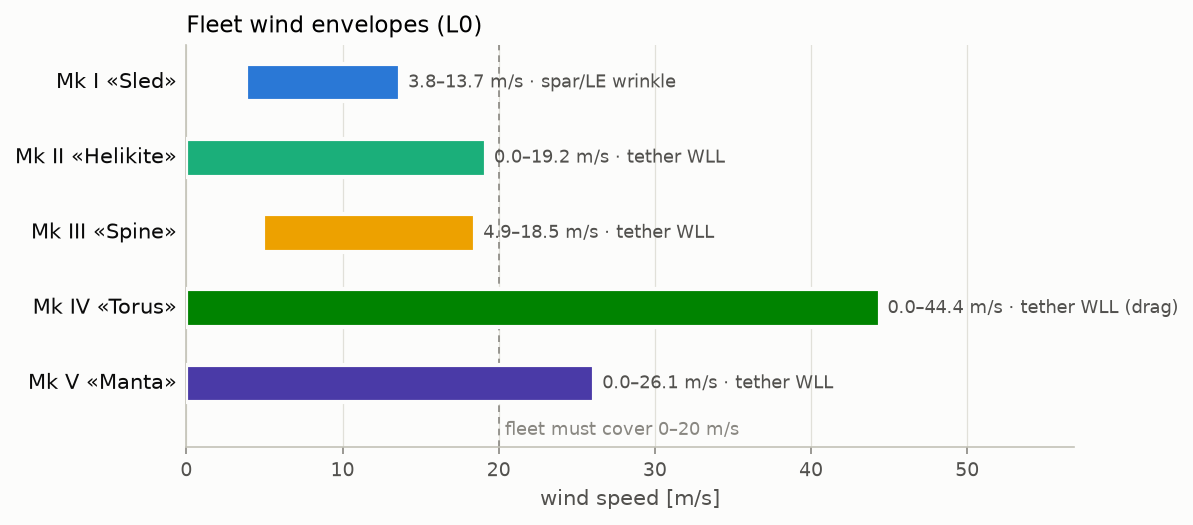
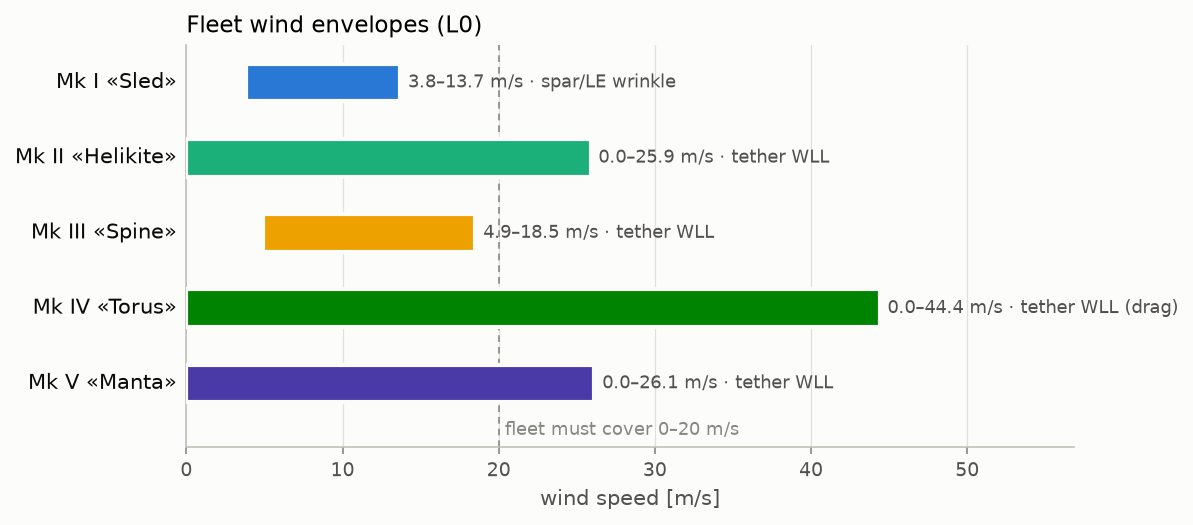
Mk2 love

Changed region(s): [[0.4032, 0.2438, 0.6823, 0.3352]]

diff --git a/kytoon/geometry.py b/kytoon/geometry.py
@@ -231,6 +231,24 @@ def build(spec: KytoonSpec) -> "trimesh.Scene":
                 process=False)
             scene.add_geometry(wing, geom_name="keel_wing")
 
+        # rigging: lobe underside tied to the wing's corners and keel fold
+        # (visual/interface geometry only — mass lives in rigging_mass)
+        lc = np.array([0.45 * c_root, 0.0, spec.lobe.height / 2 + 0.5])
+        a, cz = spec.lobe.diameter / 2, spec.lobe.height / 2
+        anchors = [np.array(v) for v in (
+            [0.0, 0.0, 0.0],
+            [c_root, -spec.canopy.span / 2, 1.2],
+            [c_root, spec.canopy.span / 2, 1.2],
+            [0.85 * c_root, 0.0, -1.5],
+        )]
+        for k, p in enumerate(anchors):
+            d = p - lc
+            # start on the lobe surface along the line to the anchor
+            t = 1.0 / math.sqrt((d[0] / a) ** 2 + (d[1] / a) ** 2
+                                + (d[2] / cz) ** 2)
+            scene.add_geometry(_tube_between(lc + t * d, p, 0.06),
+                               geom_name=f"rigging_{k}")
+
         # gimbaled EO/IR pod (spec payload), hung under the keel
         pod = trimesh.creation.capsule(radius=0.45, height=1.1)
         pod.apply_transform(

diff --git a/reports/l0.md b/reports/l0.md
@@ -11,13 +11,13 @@ Closed-form layer: Archimedes buoyancy, pressurized-beam wrinkle margins, quasi-
 | Flying mass [kg] | 185 | 218 | 258 | 245 | 209 |
 | Gross He lift [kg] | 39 | 752 | 5 | 706 | 678 |
 | Net static lift [kg] | -146 | 534 | -252 | 461 | 469 |
-| … incl. tether [kg] | -190 | 498 | -308 | 425 | 433 |
+| … incl. tether [kg] | -190 | 478 | -308 | 425 | 433 |
 | Calm-air capable | ✘ | ✔ | ✘ | ✔ | ✔ |
 | v_min [m/s] | 3.8 | 0.0 | 4.9 | 0.0 | 0.0 |
-| v_max [m/s] | 13.7 | 19.2 | 18.5 | 44.4 | 26.1 |
+| v_max [m/s] | 13.7 | 25.9 | 18.5 | 44.4 | 26.1 |
 | v_max limiter | spar/LE wrinkle | tether WLL | tether WLL | tether WLL (drag) | tether WLL |
 | Tow @12 m/s [kN] | 28.7 | 14.3 | 28.0 | 0.0 | 7.7 |
-| Spare vert. lift @10 m/s [kg] | 1,094 | 1,265 | 956 | 425 | 865 |
+| Spare vert. lift @10 m/s [kg] | 1,094 | 1,245 | 956 | 425 | 865 |
 
 ## Structure margins
 
@@ -53,7 +53,7 @@ Closed-form layer: Archimedes buoyancy, pressurized-beam wrinkle margins, quasi-
 - **Mk II «Helikite»**: no L0 flags
 - **Mk III «Spine»**: needs ≥ 4.9 m/s to stay aloft
 - **Mk IV «Torus»**: no L0 flags
-- **Mk V «Manta»**: no L0 flags- **Mk V «Manta»**: no L0 flags## Aerodynamic calibration provenance
+- **Mk V «Manta»**: no L0 flags- **Mk V «Manta»**: no L0 flags- **Mk V «Manta»**: no L0 flags## Aerodynamic calibration provenance
 
 Canopy coefficients for the clean-wing archetypes (Mk I, Mk III) are anchored
 to the open TU Delft V3 LEI benchmark (awegroup/TUDELFT_V3_KITE, CC-BY):

diff --git a/KYTOON-PROJECT.md b/KYTOON-PROJECT.md
@@ -204,6 +204,13 @@ legitimately lower per m² and not comparable to AWE traction figures.
 - **Mk V «Manta» covers the requirement alone (2026-07-08)**: 648 m³
   prolate hull + 130 m² side deltas → +469 kg net static, 0–26.1 m/s
   tether-limited at L0.
+- **Mk II design iteration: tether was the binding limit (2026-07-11)**:
+  the 12 mm/110 kN line capped the envelope at 19.2 m/s while the canopy
+  fabric ceiling sits at ~48. Upgraded to Mk III's 16 mm/200 kN class
+  (winch/termination commonality): envelope now 0–25.9 m/s (Mk V parity)
+  for 20 kg of net lift (534 → 478 incl. tether). Spec + iteration sheet
+  (REV C) updated. Next binding limit is still the tether; going past
+  ~29 m/s (18 mm) costs commonality and lift for little ISR value.
 - **Body-interference study bounds the Mk II/V coefficients (2026-07-11,
   task 5)**: AeroSandbox AeroBuildup (rigid smooth bodies — a lower drag
   bound). Mk V: cl_op 0.65 at α≈7°, L1 system cd 0.059 vs the hand-picked